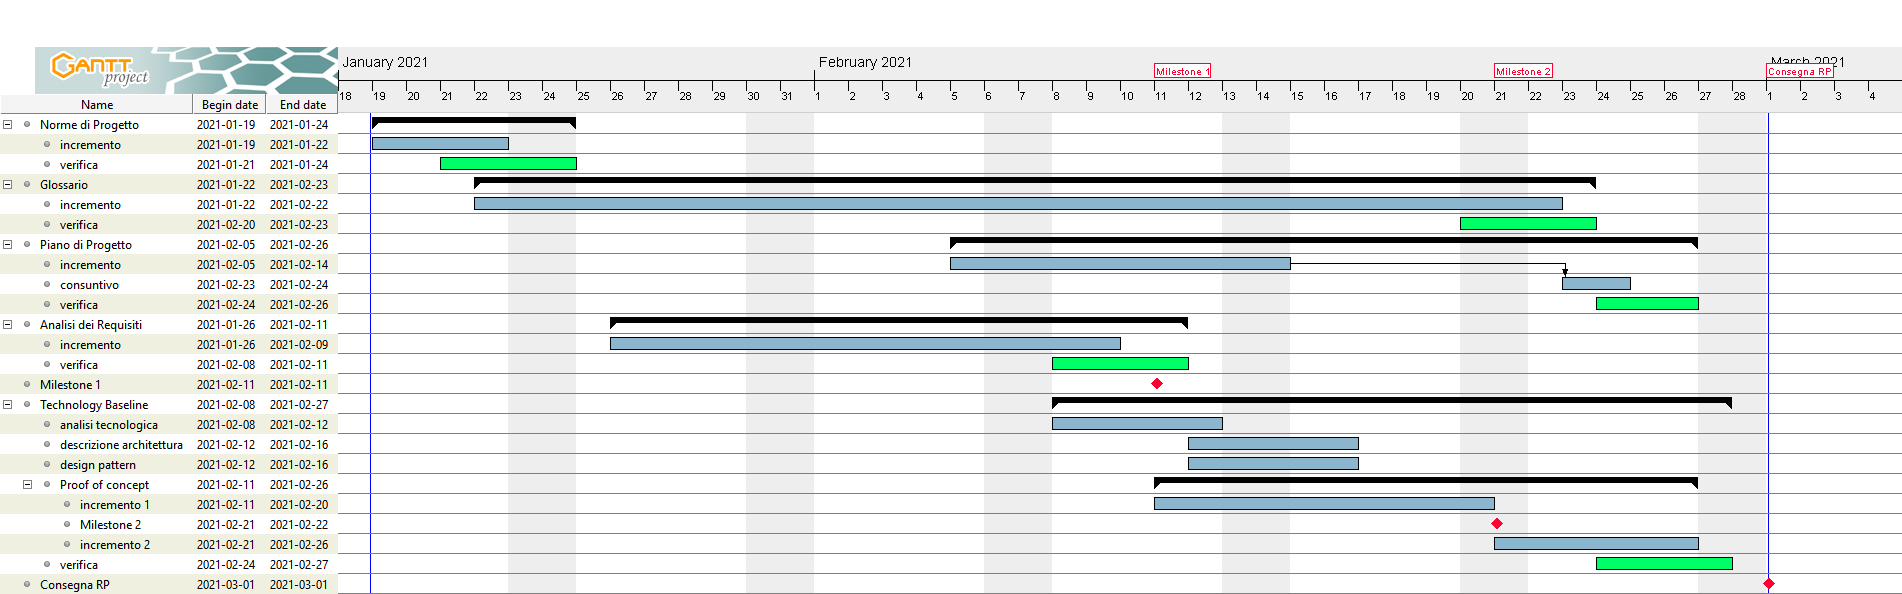
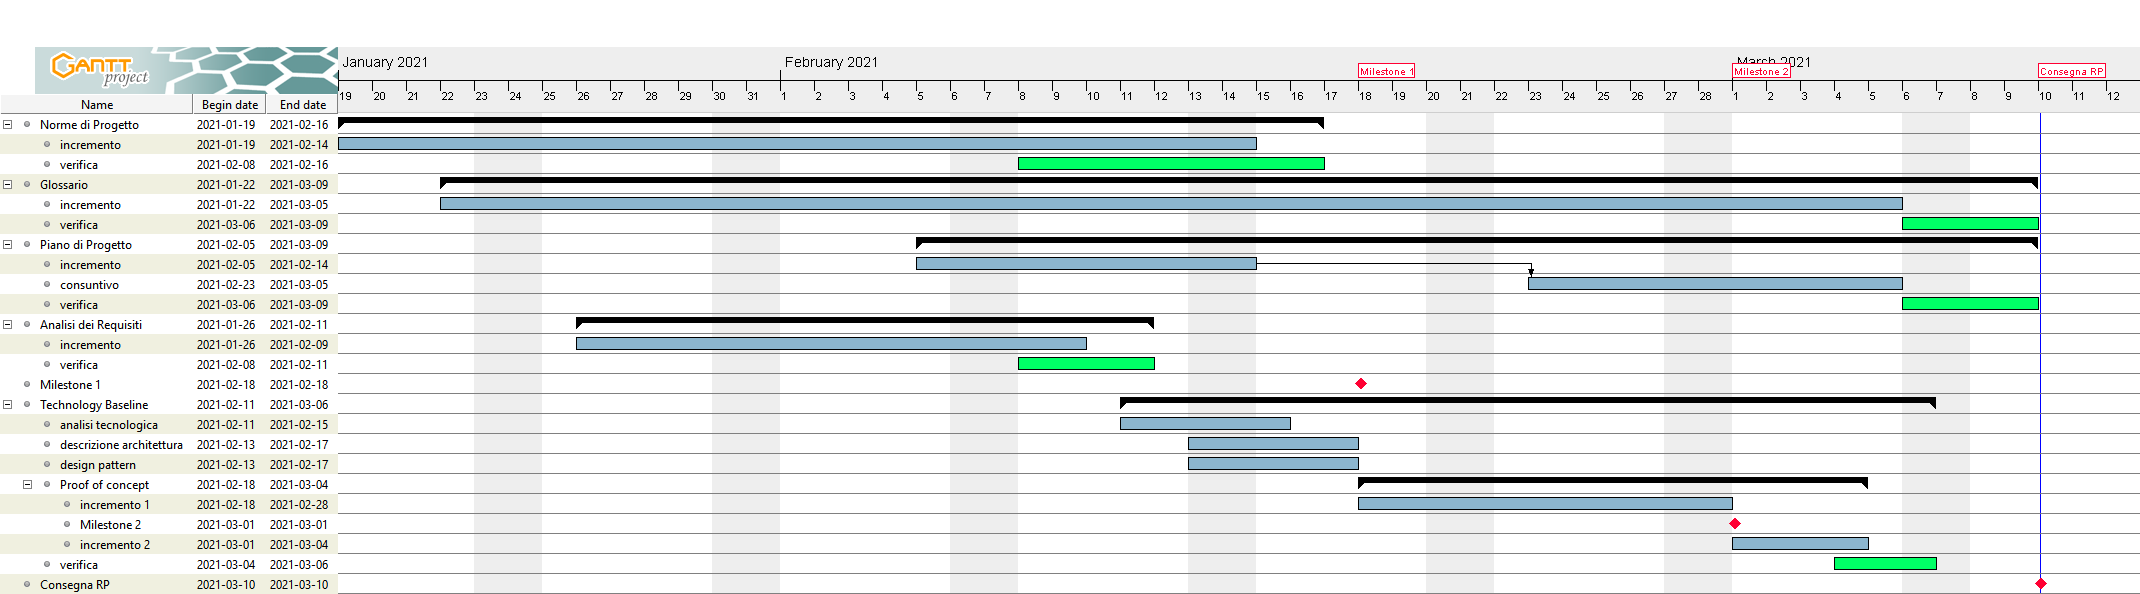
Aggiornate pianificazioni

diff --git a/esterni/piano_di_progetto/src/4_pianificazione.tex b/esterni/piano_di_progetto/src/4_pianificazione.tex
@@ -42,7 +42,7 @@ Periodo: dal 19/01/2021 al 01/03/2021.\\
 La fase di progettazione architetturale inizia subito dopo la presentazione della Revisione dei Requisiti.\\
 In questa fase verranno aggiornati e corretti i documenti redatti a seguito delle valutazioni ricevute, saranno adattati i requisiti in base ai feedback del proponente e verrà effettuato uno studio più approfondito delle tecnologie coinvolte, al fine di realizzare un \glossario{Proof of Concept} che fungerà da dimostratore della base tecnologica del progetto scelta. 
 
-Più in dettaglio, verranno aggiornati i seguenti documenti, portandoli alla versione 2.0.0 in corrispondenza della consegna:
+Più in dettaglio, verranno aggiornati i seguenti documenti:
 
 \begin{itemize}
     \item Norme di Progetto;
@@ -56,8 +56,8 @@ Verrà anche preparata la presentazione della Technology Baseline, che servirà 
 
 Durante la stesura della Technology Baseline sono previsti 2 incrementi:
 \begin{itemize}
-    \item Incremento 1 (dal 2021-02-11 al 2021-02-20): l'obiettivo principale è la codifica di alcuni use case concordati con il proponente. Ci si focalizzerà sull'interazione con la libreria D3.js per la creazione dei grafici Scatter Plot Matrix. In particolare sugli use case: UCO1.2, UCO2.2, UCO3, UCO3.1, UCO3.2, UCO3.3, UC4.2, UC4.2.1, UC4.2.4, UC4.2.5;
-\item Incremento 2 (dal 2021-02-21 al 2021-02-26): l'obiettivo, di questo periodo, sarà l'implementazione degli use case e del miglioramento generale di tutto il resto. Se gli use case citati al punto precedente saranno completati, si proverà ad implementare altri use case: UC4.2.2, UC4.2.3.
+    \item Incremento 1 (dal 2021-02-18 al 2021-02-28): l'obiettivo principale è la codifica di alcuni use case concordati con il proponente. Ci si focalizzerà sull'interazione con la libreria D3.js per la creazione dei grafici Scatter Plot Matrix. In particolare sugli use case: UCO1.2, UCO2.2, UCO3, UCO3.1, UCO3.2, UCO3.3, UC4.2, UC4.2.1, UC4.2.4, UC4.2.5;
+\item Incremento 2 (dal 2021-03-01 al 2021-03-04): l'obiettivo, di questo periodo, sarà l'implementazione degli use case e del miglioramento generale di tutto il resto. Se gli use case citati al punto precedente saranno completati, si proverà ad implementare altri use case: UC4.2.2, UC4.2.3.
 \end{itemize}
 
 \begin{figure}[H]
@@ -68,7 +68,7 @@ Durante la stesura della Technology Baseline sono previsti 2 incrementi:
 
 \subsection{Progettazione di dettaglio e codifica}%
 \label{sub:prog_dett}
-Periodo: dal 01/03/2021 al 02/04/2021.\\
+Periodo: dal 11/03/2021 al 02/04/2021.\\
 Questa fase prevede la stesura del codice sulla base dei dettagli precedentemente tracciati; vi saranno aggiustamenti della pianificazione e aggiornamenti dei documenti. Verrà inoltre redatto il \textsc{\glossario{Manuale d’utente}}. I contatti con il proponente si manterranno stretti al fine di poter effettuare i primi rilasci e assicurarsi di essere in linea con le richieste.\\
 Per concludere verrà redatta la lettera di presentazione per candidarsi alla \textsc{Revisione di Qualifica}. Nella settimana successiva alla consegna della \textsc{Revisione di Qualifica} verrà redatta la presentazione da portare in sede di revisione programmata giorno 09/04/2021. 
 

diff --git a/esterni/piano_di_progetto/piano_di_progetto.tex b/esterni/piano_di_progetto/piano_di_progetto.tex
@@ -31,8 +31,9 @@
 \setDescrizione{Questo documento ha lo scopo di descrivere la pianificazione del gruppo \emph{SpaghettiCode} nello sviluppo del progetto \emph{HD Viz}.}
 
 \setModifiche{
-  v1.0.2 & Masevski Martin & Responsabile & 2021-03-04 & Correzioni e ampliamento al capitolo \S\ref{sec:rischi} \\
-  v1.0.1 & Masevski Martin & Responsabile & 2021-02-07 & Correzioni al capitolo \S\ref{sec:pianif} secondo <id verbale>\\
+  v1.0.3 & Masevski Martin & Responsabile & 2021-03-09 & Aggiornate pianificazioni \S\ref{sec:pianif}  \\
+  v1.0.2 & Masevski Martin & Responsabile & 2021-03-04 & Correzioni e ampliamento \S\ref{sec:rischi} \\
+  v1.0.1 & Masevski Martin & Responsabile & 2021-02-13 & Correzioni \S\ref{sec:pianif} secondo VI 2021-02-12 \\
   v1.0.0 & Masevski Martin & Responsabile & 2021-01-18 & Approvazione documento \\
   v0.2.1 & Paparazzo Giorgia & Responsabile & 2021-01-16 & Modifica \S\ref{sec:cons} \\
   v0.2.0 & Kostadinov Samuel & Verificatore & 2021-01-07 & Verifica \S\ref{sec:introduzione}, \S\ref{sec:rischi}, \S\ref{sec:sviluppo} \\
